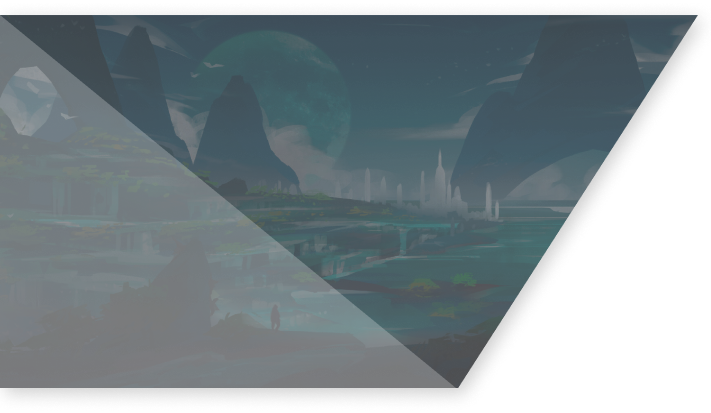
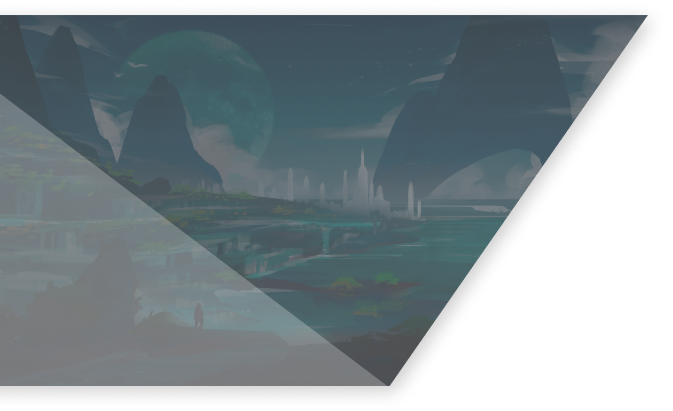
pushing hero page

diff --git a/port_v2/src/components/Hero.css b/port_v2/src/components/Hero.css
@@ -1,30 +1,84 @@
 .hero-container {
   display: flex;
-  position: absolute;
-  top: 20vw; /* Adjust top position as needed */
-  width: 100vw; /* Make it span the entire width of the viewport */
+  position: relative; /* Changed from absolute to relative */
+  top: 20vw;
+  width: 100vw;
+  flex-wrap: nowrap;
+  justify-content: space-around; /* Ensure children are spaced out */
+  align-items: center; /* Vertically center items in the container */
 }
+
+.left-image, .right-image {
+  flex-grow: 1;
+  flex-shrink: 1;
+  flex-basis: 0;
+  max-width: 35%;
+  height: auto;
+}
+
 
 .left-image {
-  width: 50vw;
-  height: 40vw;
-  margin-left: 0;
-  padding-left: 0;
+  max-width: 10%;
+  animation-name: slideInFromLeft;
+  animation-duration: 0.8s;
+  animation-fill-mode: forwards;
 }
 
+.right-image {
+  max-width: 950px;
+  margin-left: auto;
+  animation-name: slideInFromRight;
+  animation-duration: 0.8s;
+  animation-fill-mode: forwards;
+}
 
-  
-  
-.hero-container .scroll {
-  position: relative;
+/* Responsive adjustments */
+@media (max-width: 900px) {
+  .hero-container {
+    flex-direction: column;
+    top: 0;
+  }
+
+  .left-image, .right-image {
+    width: 100%;
+    max-width: none;
+    margin-left: 0;
+  }
+
+  .right-image {
+    margin-top: 5vh;
+  }
+}
+
+@media (max-width: 600px) {
+  .hero-container {
+    top: 10vw;
+  }
+
+  .left-image, .right-image {
+    width: 80vw;
+    height: auto;
+  }
+
+  .right-image {
+    margin-top: 3vh;
+  }
+}
+
+/* Styles for scrolling text */
+.scroll {
+  position: absolute;
   display: flex;
-  width: 300px;
-  height: 100px;
-  left: 450px;
-  font-size: 50px;
-  top: 175px;
+  width: 55vw;
+  max-width: 100%;
+  height: 120px;
+  z-index: 1000;
+  left: 78%;
+  top: -29%;
+  transform: translateX(-50%);
+  font-size: calc(6vw + 1em);
   overflow: hidden;
-  background: red;
+  font-weight: bolder;
   -webkit-mask-image: linear-gradient(90deg, transparent, white 20%, white 80%, transparent);
 }
 
@@ -33,36 +87,63 @@
   animation: animate var(--t) linear infinite;
 }
 
-@keyframes animate 
-{
-  0%
-  {
+@keyframes animate {
+  0% {
     transform: translateX(0%);
   }
-  100%
-  {
-    transform: translateX(-80%);
+  100% {
+    transform: translateX(-72%);
   }
 }
 
 .scroll div span {
   display: inline-flex;
   margin: 10px;
-  letter-spacing: 0.2em;
+  letter-spacing: 0.08em;
   text-transform: uppercase;
-  color:white;
+  color: rgba(128, 128, 128, 0.135);
   padding: 5px 1px;
   border-radius: 5px;
   transition: 0.5s;
-  
-
 }
 
-.scroll div span:hover {
-  background: green;
+.animated-text {
+  position:absolute;
+  top: -35px; /* Adjust as needed to place text correctly above images */
+  left: 20px;
+  width: 80%; /* Ensures full width */
+  z-index: 10; /* Ensures text appears above images */
+}
+
+.animated-text h1 {
+  font-family:monospace;
+  font-weight: 600;
+  font-size:24px;
+  color: rgb(168, 168, 168);
+  padding: 0.5rem;
+  margin: 0 auto; /* Removed top margin to better control positioning */
+  transition: background-color 0.5s, color 0.5s;
+}
+
+.animated-text h1:hover {
+  color: rgb(58, 57, 57);
   cursor: pointer;
 }
-  
-  
 
-  
+@keyframes slideInFromLeft {
+  from {
+    transform: translateX(-100%);
+  }
+  to {
+    transform: translateX(0);
+  }
+}
+
+@keyframes slideInFromRight {
+  from {
+    transform: translateX(100%);
+  }
+  to {
+    transform: translateX(0);
+  }
+}

diff --git a/port_v2/src/components/Hero.js b/port_v2/src/components/Hero.js
@@ -1,19 +1,68 @@
-import React from 'react';
+import React, { useEffect, useRef } from 'react';
 import './Hero.css'; 
 import leftImage from '/Users/shanakesia/Desktop/CMPT/projects/portfolio/port_v2/src/components/images/left_image.png';
-import rightImage from '/Users/shanakesia/Desktop/CMPT/projects/portfolio/port_v2/src/components/images/right_image.png'
+import rightImage from '/Users/shanakesia/Desktop/CMPT/projects/portfolio/port_v2/src/components/images/right_image.png';
+
 function Hero() {
-        
+  const headingRef = useRef(null); // Create a ref for the animated text
+
+  useEffect(() => {
+    const letters = "ABCDEFGHIJKLMNOPQRSTUVWXYZ";
+    let interval = null;
+
+    const animateText = (event) => {
+      let iteration = 0;
+
+      clearInterval(interval);
+
+      interval = setInterval(() => {
+        const targetText = event.target.getAttribute('data-value') || "";
+        event.target.innerText = targetText
+          .split("")
+          .map((char, index) => {
+            if (index < iteration) {
+              return targetText[index];
+            }
+            return letters[Math.floor(Math.random() * 26)];
+          })
+          .join("");
+
+        if (iteration >= targetText.length) {
+          clearInterval(interval);
+        }
+
+        iteration += 1 / 3;
+      }, 20);
+    };
+
+    // Attach the event listener
+    const heading = headingRef.current;
+    if (heading) {
+      heading.addEventListener('mouseover', animateText);
+    }
+
+    // Clean up the event listener
+    return () => {
+      if (heading) {
+        heading.removeEventListener('mouseover', animateText);
+      }
+      clearInterval(interval);
+    };
+  }, []);
+
   return (
     <div className="hero-container">
+      <div className="animated-text">
+        <h1 ref={headingRef} data-value="WELCOME TO SHANA'S PORTFOLIO">CLICK HERE</h1>
+      </div>
+
+
       <div className="left-image">
-        <img src={leftImage} alt='left-image'/>
-      
+        <img src={leftImage} alt="Left"/>
       </div>
 
       <div className="right-image">
-        
-        
+        <img src={rightImage} alt="Right"/>
       </div>
 
       <div className="scroll" style={{ '--t': '20s' }}>
@@ -25,6 +74,8 @@ function Hero() {
           <span>SHANA</span>
         </div>
       </div>
+
+
     </div>
   );
 }

diff --git a/port_v2/src/components/navbar.js b/port_v2/src/components/navbar.js
@@ -1,5 +1,9 @@
 import React from 'react';
 import './Navbar.css';
+import home from '/Users/shanakesia/Desktop/CMPT/projects/portfolio/port_v2/src/components/images/home_icon.png';
+import about from '/Users/shanakesia/Desktop/CMPT/projects/portfolio/port_v2/src/components/images/about_icon.png';
+import projects from '/Users/shanakesia/Desktop/CMPT/projects/portfolio/port_v2/src/components/images/projects_icon.png';
+import experience from '/Users/shanakesia/Desktop/CMPT/projects/portfolio/port_v2/src/components/images/experience_icon.png';
 
 function Navbar() {
   return (
@@ -7,13 +11,16 @@ function Navbar() {
       <div className="nav-container">
         <ul className="nav-menu">
           <li className="nav-item">
-            <a href="#hero" className="nav-links">Home</a>
+            <a href="#home" className="nav-links"><img src={home}/></a>
           </li>
           <li className="nav-item">
-            <a href="#projects" className="nav-links">Projects</a>
+            <a href="#about" className="nav-links"><img src={about}/></a>
           </li>
           <li className="nav-item">
-            <a href="#info" className="nav-links">Info</a>
+            <a href="#projects" className="nav-links"><img src={projects}/></a>
+          </li>
+          <li className="nav-item">
+            <a href="#experience" className="nav-links"><img src={experience}/></a>
           </li>
         </ul>
       </div>

diff --git a/port_v2/src/components/navbar.css b/port_v2/src/components/navbar.css
@@ -1,0 +1,57 @@
+/* Navbar.css */
+.navbar {
+    padding-left: 1rem;
+    padding-right: 1rem;
+    padding-top: 2rem;
+    position: fixed; /* Fixed at the top */
+    width: 100%;
+    z-index: 1000; /* Ensures navbar stays on top of other content */
+  }
+  
+  .nav-container {
+    max-width: 100%;
+    margin: 0 auto;
+    display: flex;
+    justify-content: center; /* Center the navigation menu */
+  }
+  
+  .nav-menu {
+    list-style: none;
+    display: flex;
+    gap: 25px; /* Space between icons */
+  }
+  
+  .nav-item {
+    display: flex;
+  }
+  
+  .nav-links {
+    display: flex;
+    align-items: center;
+    justify-content: center;
+    text-decoration: none;
+    color: white; /* Icon color */
+  }
+  
+  .nav-links img {
+    width: 70%;
+    transition: transform 0.2s ease-in-out; /* Smooth scaling on hover */
+  }
+  
+  .nav-links:hover img,
+  .nav-links:focus img {
+    transform: scale(1.1); /* Slightly enlarge icons on hover/focus */
+  }
+  
+  /* Responsive Navbar */
+  @media screen and (max-width: 768px) {
+    .nav-container {
+      justify-content: space-around; /* Adjust spacing on smaller screens */
+    }
+  
+    .nav-links img {
+      width: 35px; /* Slightly smaller icons on smaller screens */
+      height: 35px;
+    }
+  }
+  

diff --git a/port_v2/src/App.css b/port_v2/src/App.css
@@ -12,7 +12,7 @@ body, h1, h2, h3, p, ul, li, a {
 
 
 body {
-  background: linear-gradient(0.25turn, #e0dfdf, #ffffff, #dad9d9);
+  background: linear-gradient(0.25turn, #e8e8e8, #ffffff, #dad9d9);
   width: 100%;
   height: 100%;
   overflow-x: hidden;
